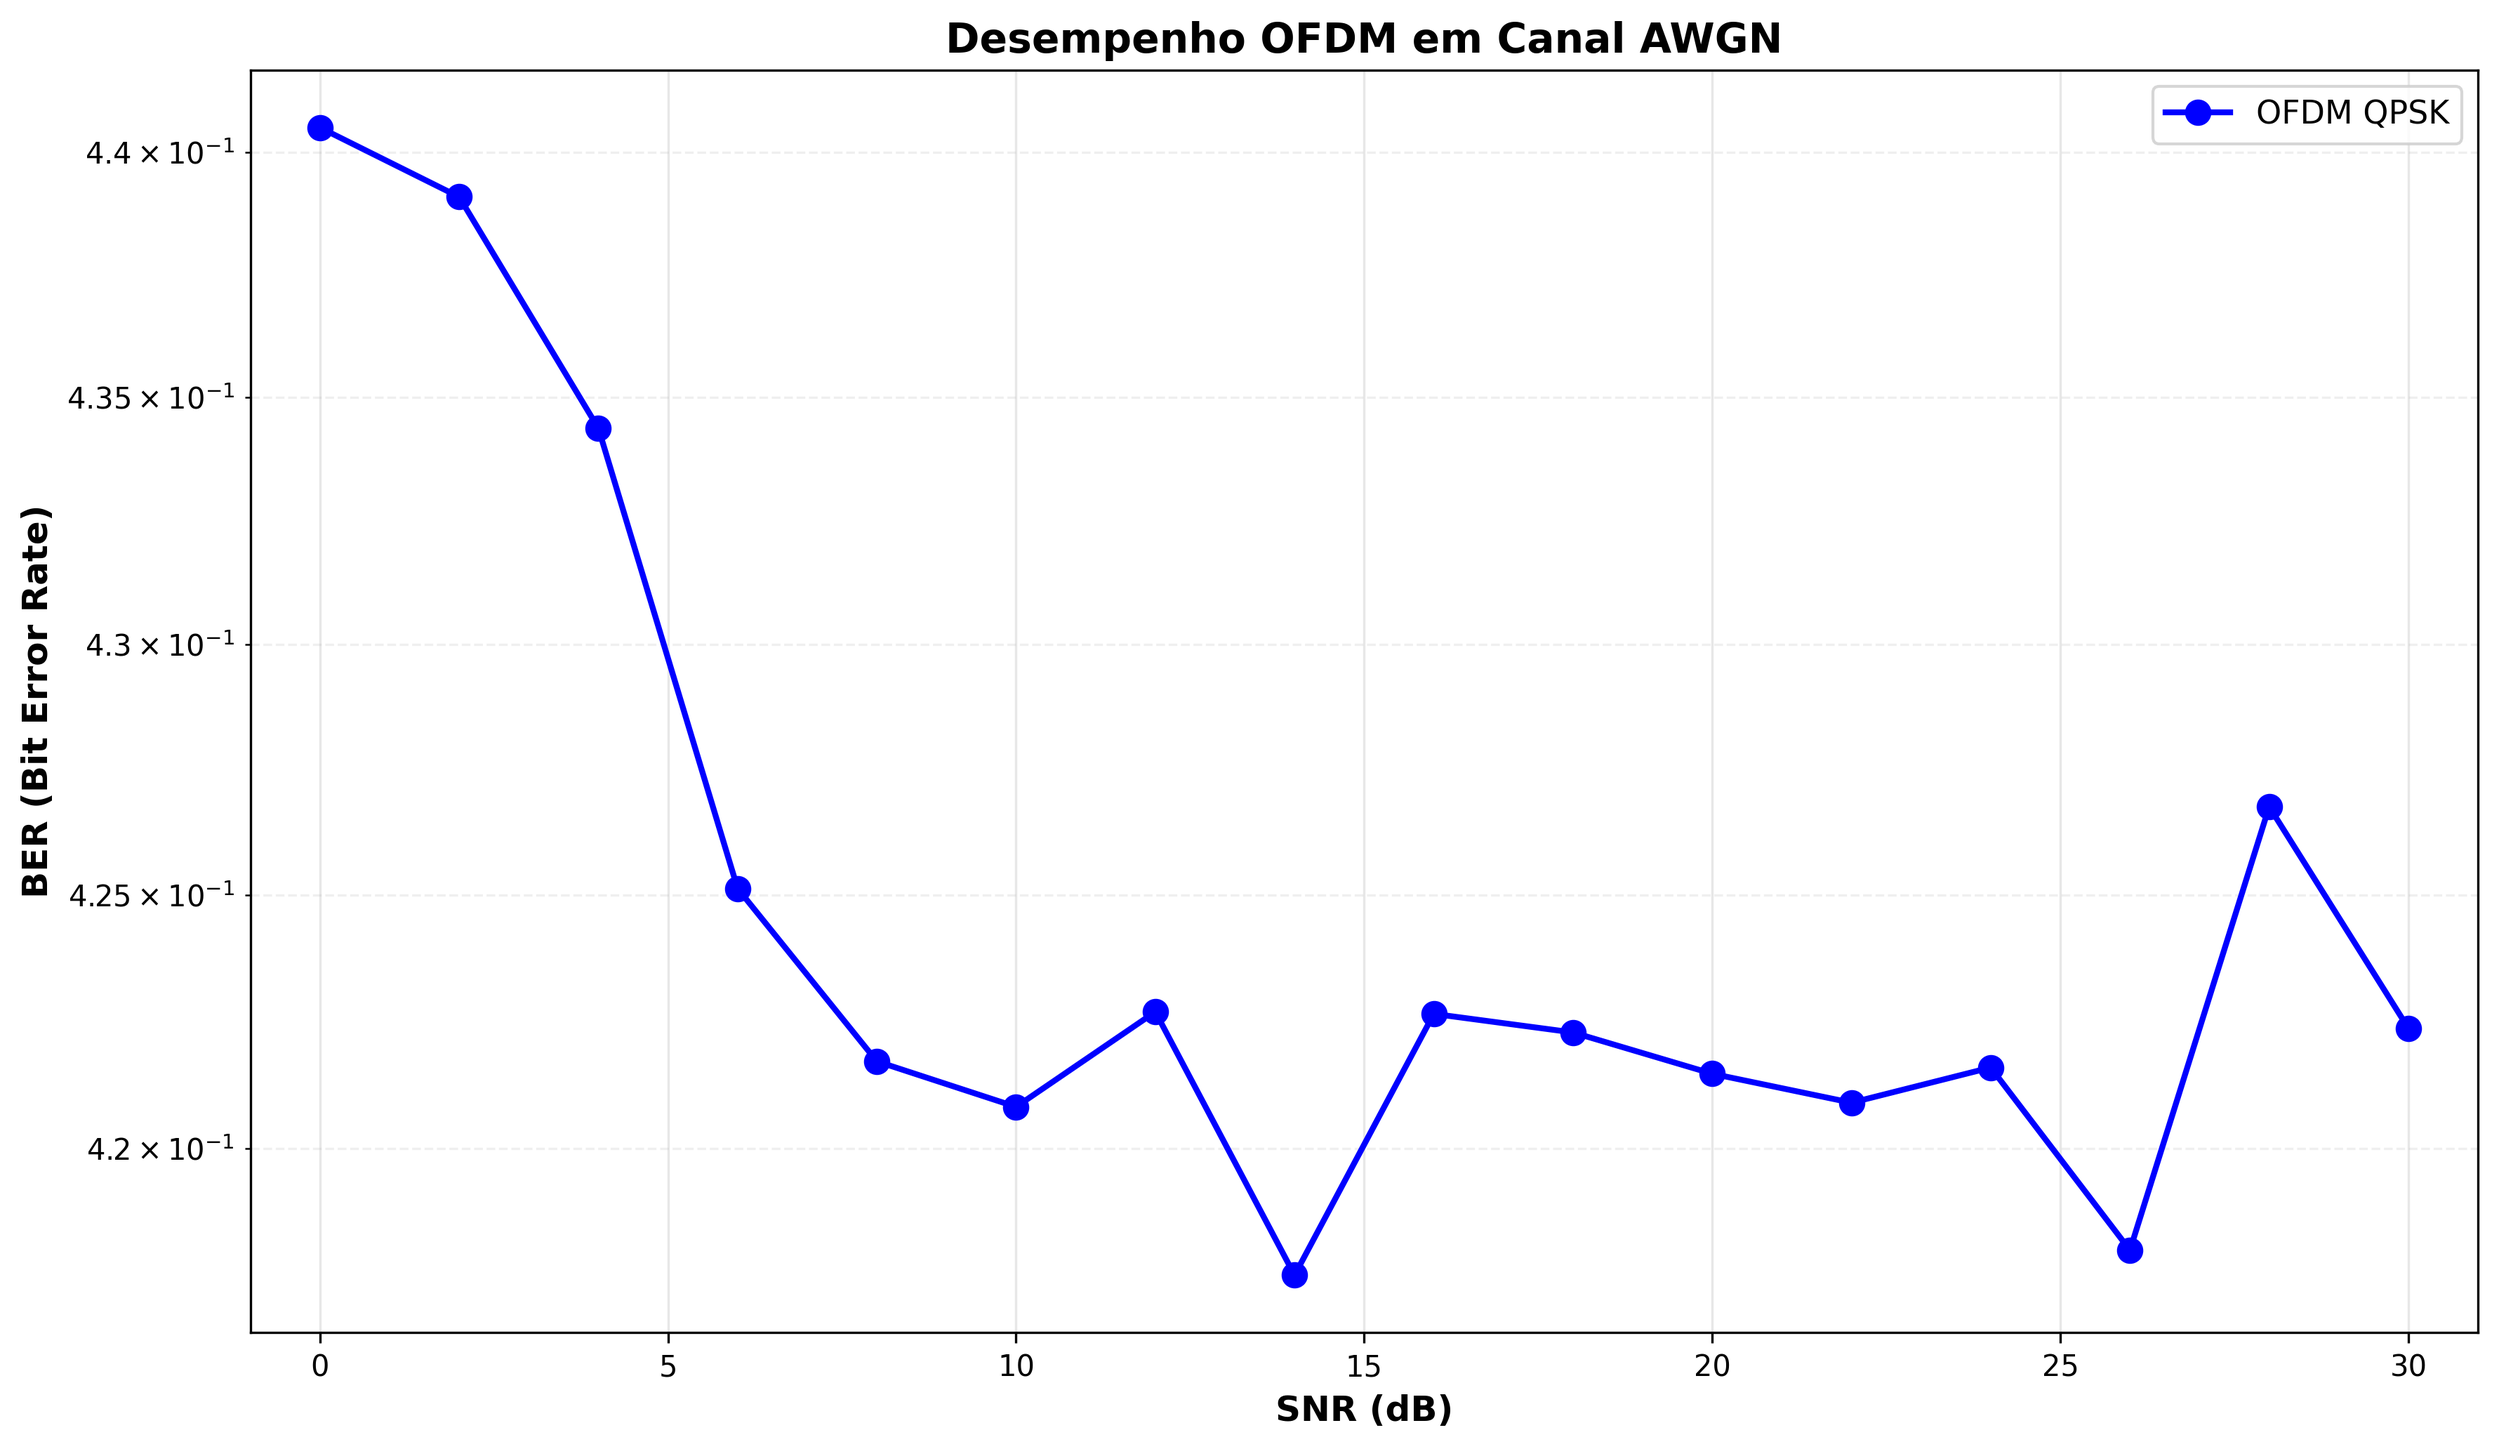
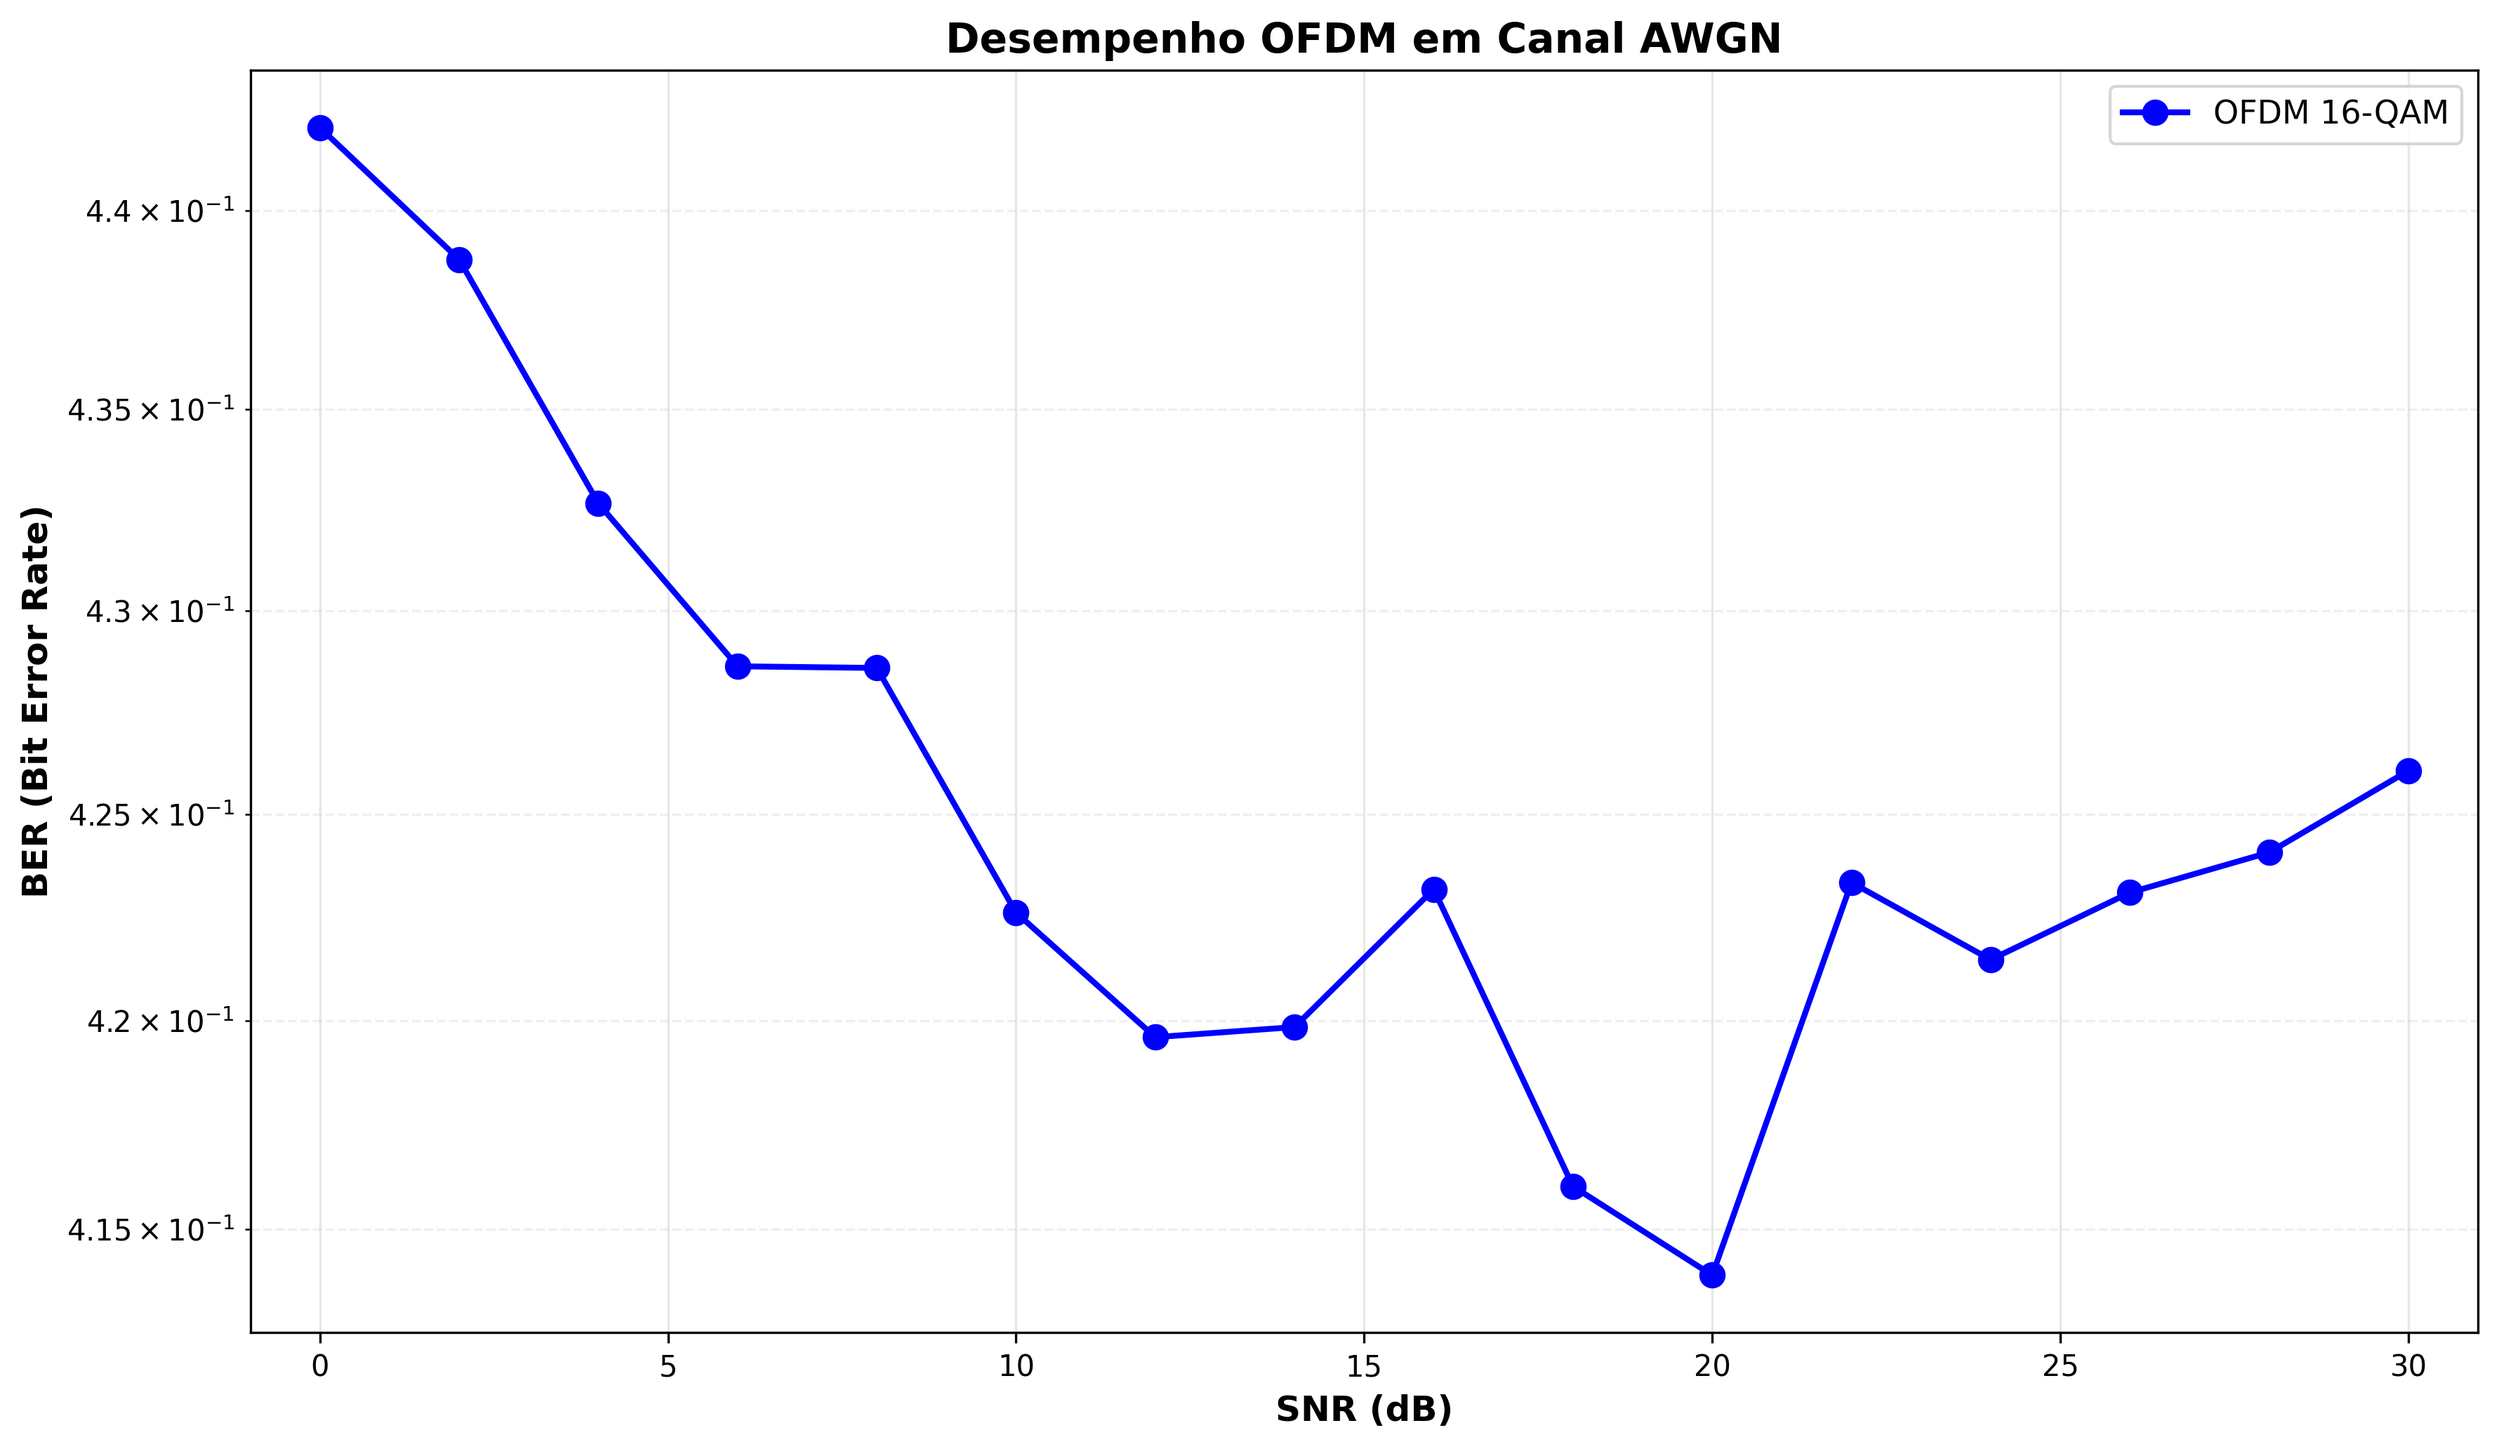
fix mod name

diff --git a/ofdm_simulation.py b/ofdm_simulation.py
@@ -436,7 +436,7 @@ def plot_ber_vs_snr(snr_values: np.ndarray, ber_values: np.ndarray):
     plt.figure(figsize=(12, 7))
     
     # Gráfico em escala logarítmica
-    plt.semilogy(snr_values, ber_values, 'b-o', linewidth=2, markersize=8, label='OFDM QPSK')
+    plt.semilogy(snr_values, ber_values, 'b-o', linewidth=2, markersize=8, label='OFDM 16-QAM')
     
     plt.grid(True, which='both', alpha=0.3)
     plt.xlabel('SNR (dB)', fontsize=12, fontweight='bold')
